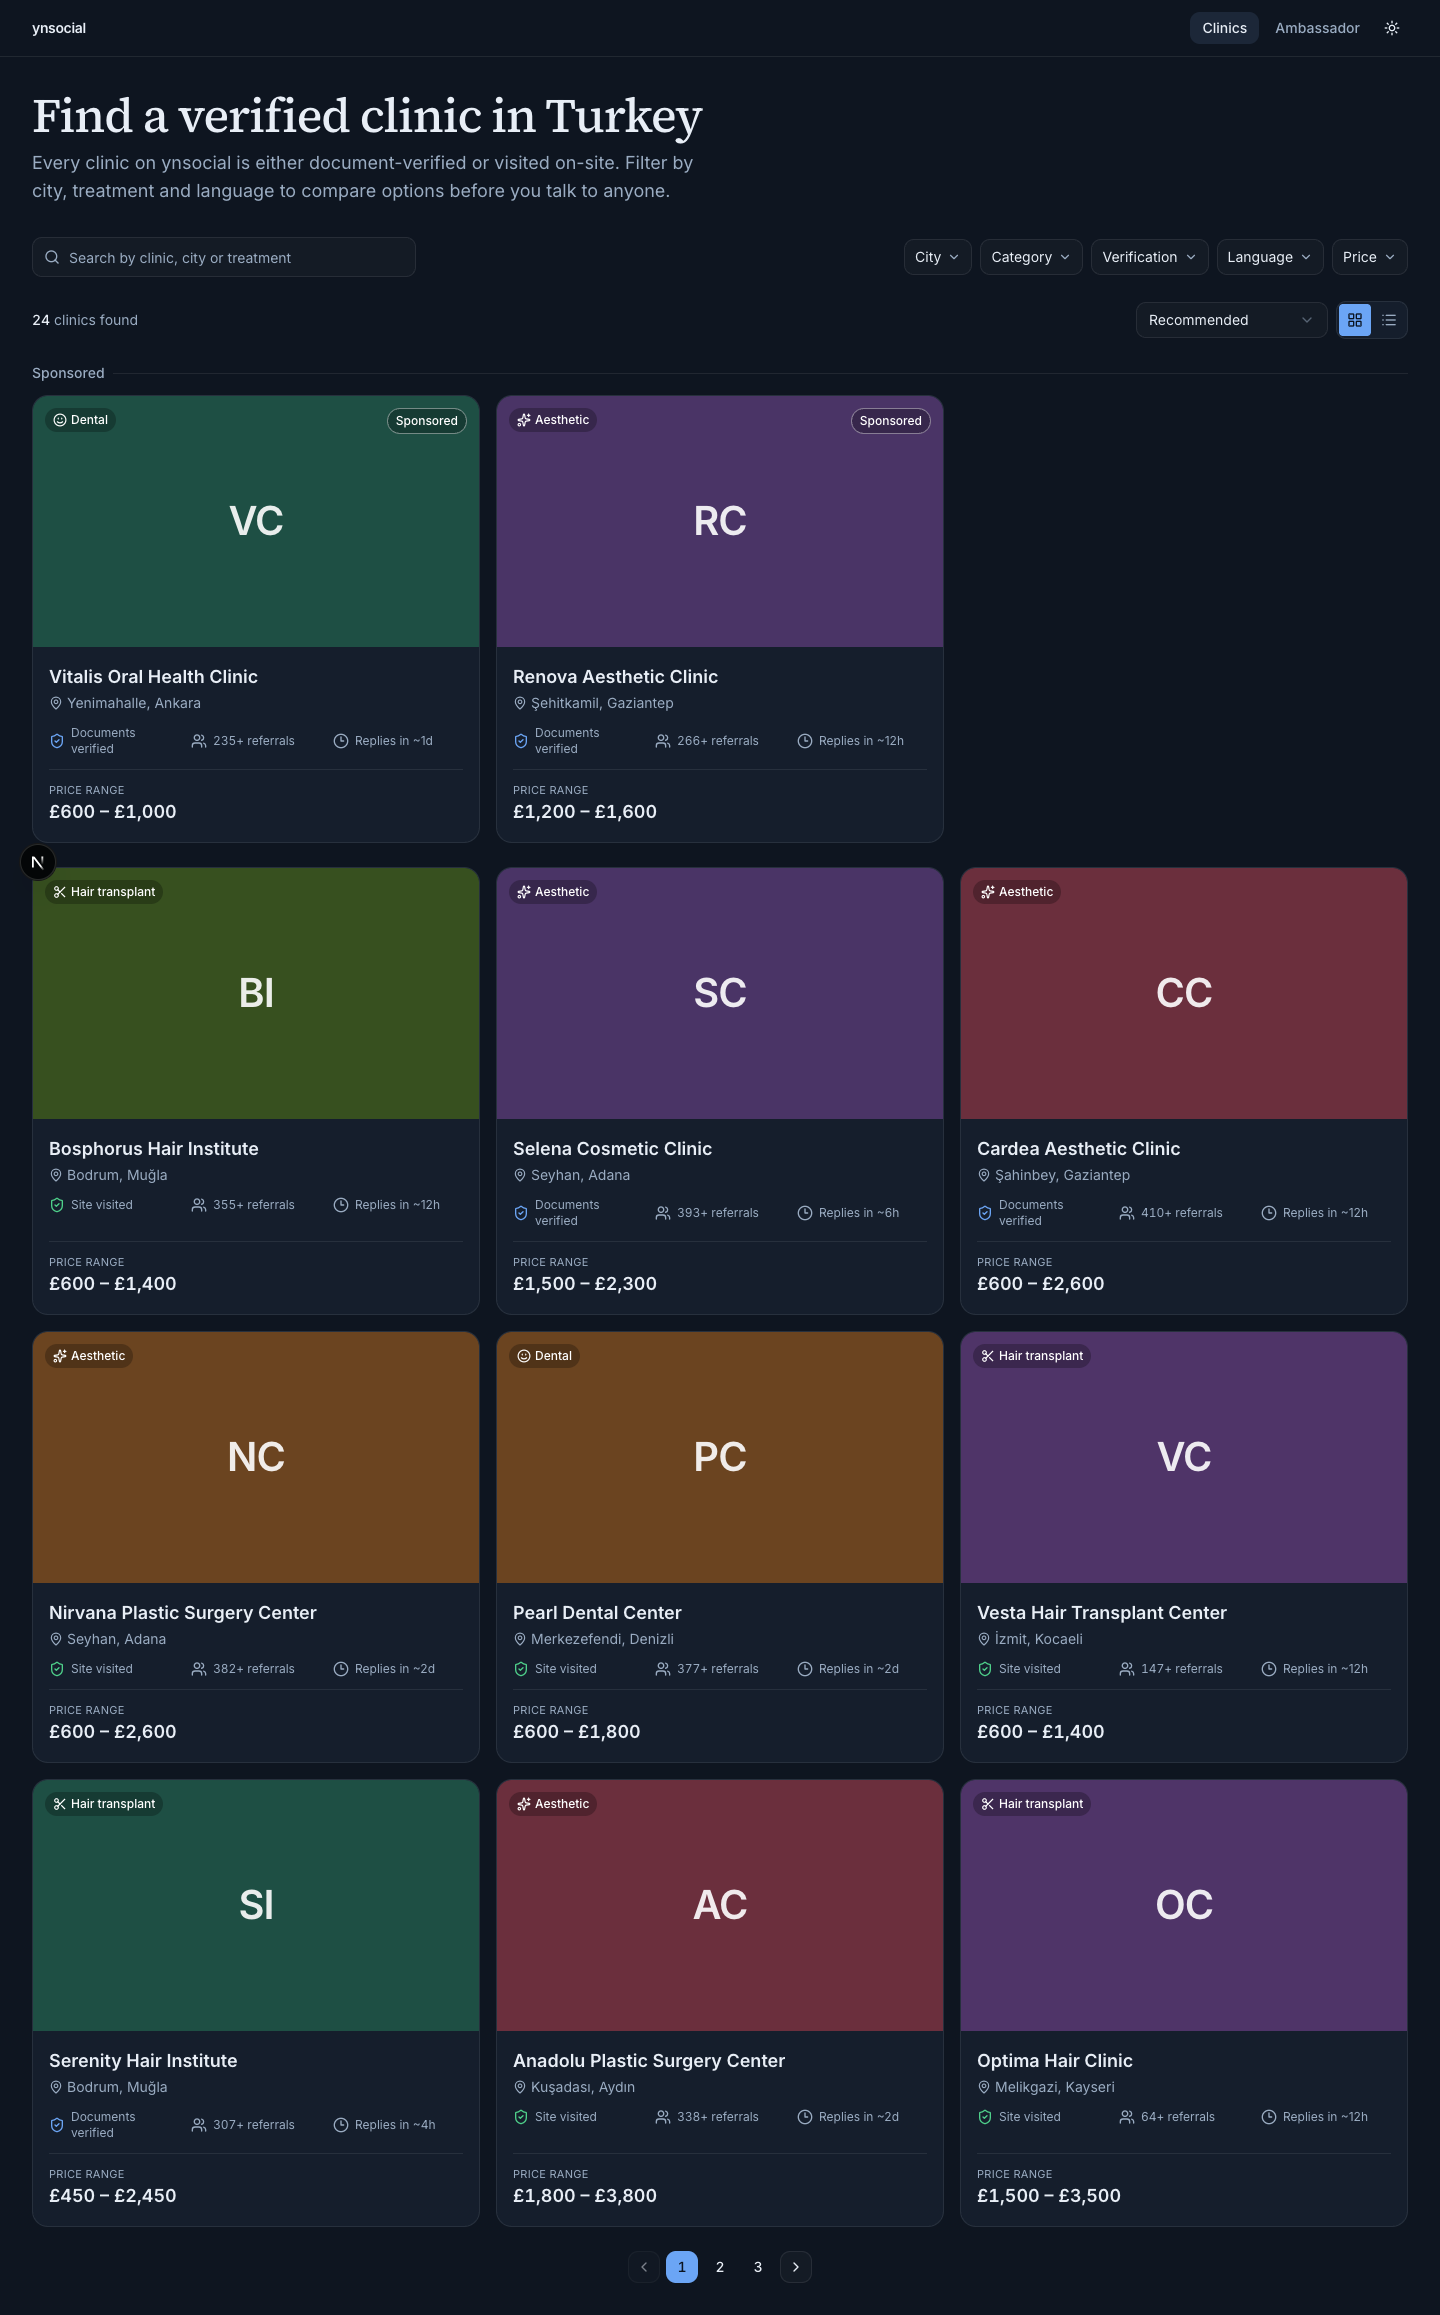
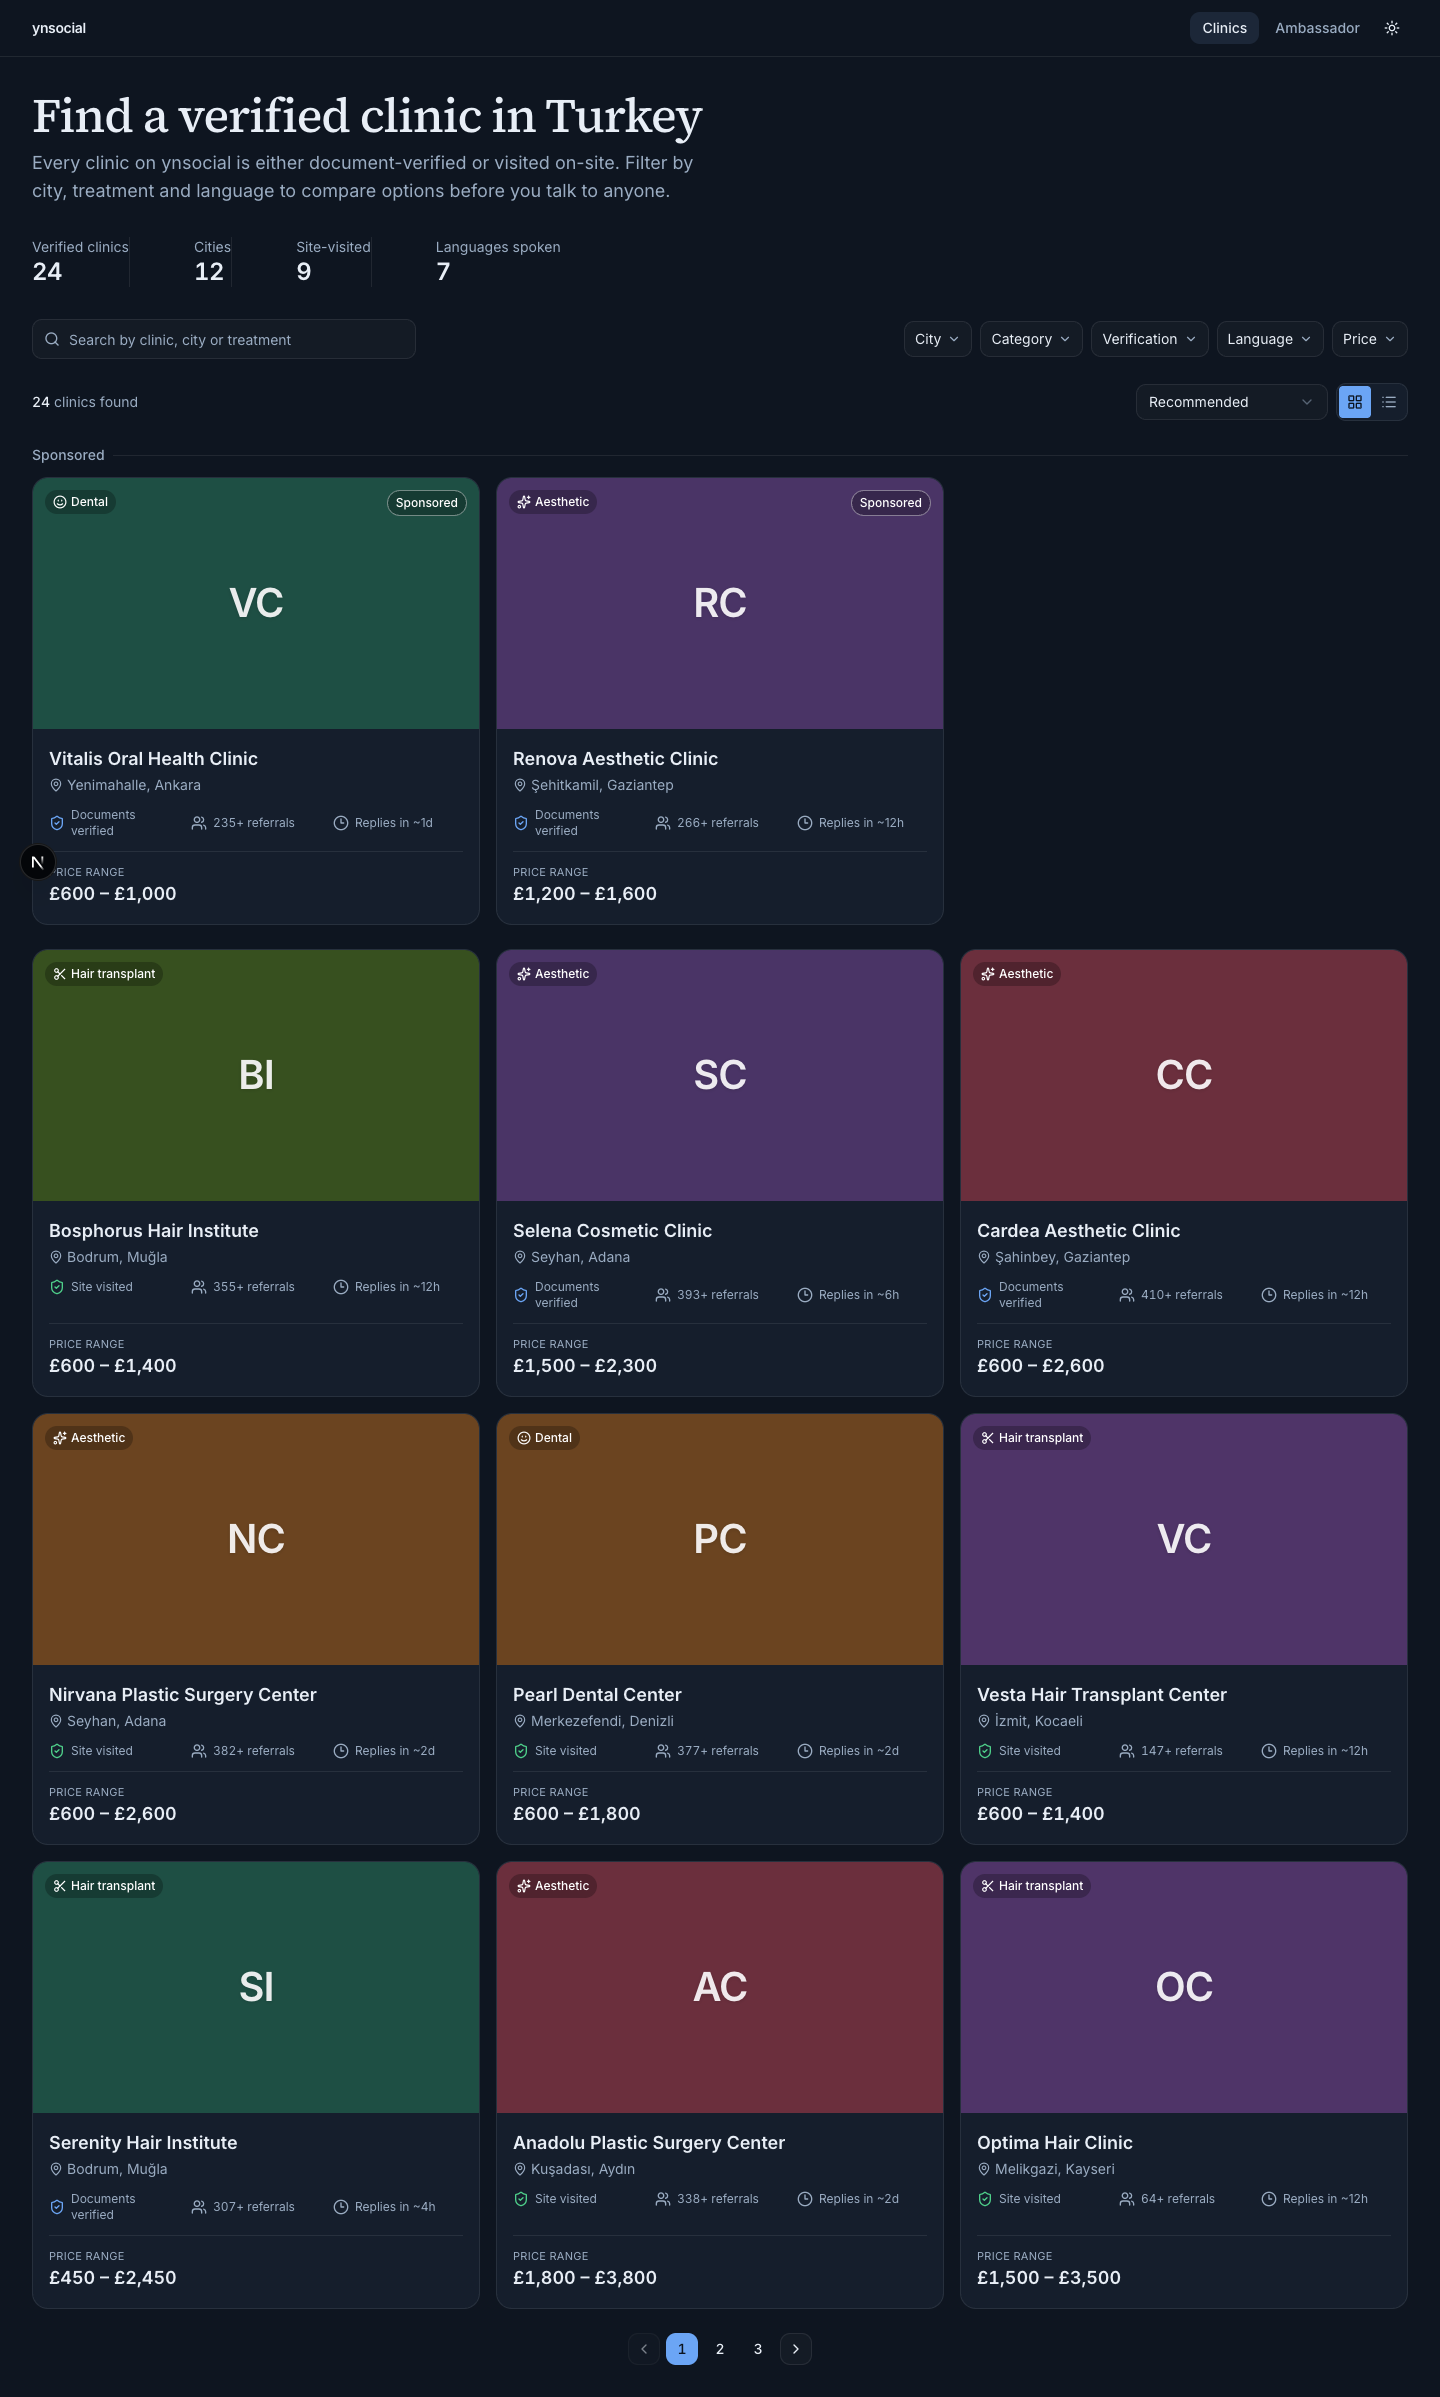
Add visual liveliness pass within the brief's calm-palette constraints
Card entrance stagger, a light-to-dark sheen on identity swatches, a
one-time count-up on ambassador summary numbers, a real-data trust stat
strip on the clinics hero, and a second (still scarce) use of the brand
accent on the Featured tag. Fixes a server/client boundary crash from
passing a formatter function into a client component.

diff --git a/src/components/clinics/clinic-card.tsx b/src/components/clinics/clinic-card.tsx
@@ -1,5 +1,5 @@
 import { Award, Clock3, Globe2, MapPin, Scissors, ShieldCheck, Smile, Sparkles, Users } from "lucide-react"
-import type { ComponentType } from "react"
+import type { ComponentType, CSSProperties } from "react"
 import { identityColorStyle } from "@/lib/deterministic-color"
 import { formatHours, initials } from "@/lib/format"
 import { CATEGORY_LABEL } from "@/lib/labels"
@@ -16,16 +16,24 @@ const CATEGORY_ICON: Record<ClinicCategory, ComponentType<{ className?: string }
 type ClinicCardProps = {
   clinic: Clinic
   variant: ClinicViewMode
+  /** Position in the current page — drives a short staggered entrance. */
+  enterIndex?: number
 }
 
-export function ClinicCard({ clinic, variant }: ClinicCardProps) {
+export function ClinicCard({ clinic, variant, enterIndex }: ClinicCardProps) {
   const CategoryIcon = CATEGORY_ICON[clinic.category]
   const isSiteVisited = clinic.verificationLevel === "site_visited"
+  const enterStyle =
+    enterIndex != null
+      ? ({ "--card-delay": `${Math.min(enterIndex, 9) * 28}ms` } as CSSProperties)
+      : undefined
 
   return (
     <article
+      style={enterStyle}
       className={cn(
-        "group flex h-full overflow-hidden rounded-lg border border-border bg-surface transition-shadow duration-150",
+        "group flex h-full overflow-hidden rounded-lg border border-border bg-surface transition-[transform,box-shadow] duration-150 hover:-translate-y-1 hover:shadow-md",
+        enterIndex != null && "animate-card-in",
         variant === "grid" ? "flex-col" : "flex-col sm:flex-row"
       )}
     >
@@ -33,11 +41,11 @@ export function ClinicCard({ clinic, variant }: ClinicCardProps) {
         aria-hidden="true"
         style={identityColorStyle(clinic.id)}
         className={cn(
-          "identity-swatch identity-pattern relative flex shrink-0 items-center justify-center overflow-hidden",
+          "identity-swatch identity-pattern identity-sheen relative flex shrink-0 items-center justify-center overflow-hidden",
           variant === "grid" ? "aspect-[16/9] w-full" : "aspect-[16/9] w-full sm:aspect-auto sm:w-48"
         )}
       >
-        <span className="text-4xl font-semibold tracking-tight text-white/90">
+        <span className="text-4xl font-semibold tracking-tight text-white/90 drop-shadow-sm">
           {initials(clinic.displayName)}
         </span>
 
@@ -67,7 +75,7 @@ export function ClinicCard({ clinic, variant }: ClinicCardProps) {
           {clinic.isFeatured ? (
             <span
               title="Editor's pick — not a paid placement"
-              className="inline-flex shrink-0 items-center gap-1 rounded-full border border-border-strong px-2 py-0.5 text-2xs font-medium text-text-muted"
+              className="inline-flex shrink-0 items-center gap-1 rounded-full border border-brand/30 bg-brand-bg px-2 py-0.5 text-2xs font-medium text-brand"
             >
               <Award className="size-3" aria-hidden="true" />
               Featured

diff --git a/src/components/ambassador/summary-cards.tsx b/src/components/ambassador/summary-cards.tsx
@@ -1,6 +1,9 @@
+"use client"
+
 import { ArrowDown, ArrowUp, Minus, type LucideIcon } from "lucide-react"
+import { AnimatedNumber } from "@/components/common/animated-number"
 import { formatDate } from "@/lib/format"
-import { formatMoney, formatPercent } from "@/lib/money"
+import { formatPence, formatPercent } from "@/lib/money"
 import { cn } from "@/lib/utils"
 import type { AmbassadorSummary } from "@/types/ambassador"
 
@@ -46,25 +49,29 @@ export function SummaryCards({ summary }: { summary: AmbassadorSummary }) {
     {
       key: "ready",
       label: "Ready to pay",
-      value: formatMoney(summary.readyToPay),
+      value: summary.readyToPay.amount,
+      format: formatPence,
       sub: `Next payout ${formatDate(summary.nextPayoutDate)}`,
     },
     {
       key: "pending",
       label: "Pending earnings",
-      value: formatMoney(summary.pendingEarnings),
+      value: summary.pendingEarnings.amount,
+      format: formatPence,
       sub: "Released after a 30-day hold period",
     },
     {
       key: "referrals",
       label: "Referrals this month",
-      value: String(summary.referralsThisMonth),
+      value: summary.referralsThisMonth,
+      format: (n: number) => String(Math.round(n)),
       trend: referralsTrend(summary.referralsThisMonth, summary.referralsLastMonth),
     },
     {
       key: "conversion",
       label: "Conversion rate",
-      value: formatPercent(summary.conversionRate),
+      value: summary.conversionRate,
+      format: (n: number) => formatPercent(n),
       trend: conversionTrend(summary.conversionRate, summary.conversionRateLast90d),
     },
   ] as const
@@ -74,7 +81,9 @@ export function SummaryCards({ summary }: { summary: AmbassadorSummary }) {
       {cards.map((card) => (
         <div key={card.key} className="flex flex-col gap-2 rounded-lg border border-border bg-surface p-4">
           <p className="text-sm font-medium text-text-muted">{card.label}</p>
-          <p className="tabular text-3xl font-semibold tracking-tight text-text">{card.value}</p>
+          <p className="tabular text-3xl font-semibold tracking-tight text-text">
+            <AnimatedNumber value={card.value} format={card.format} />
+          </p>
           {"trend" in card ? (
             <Delta trend={card.trend} />
           ) : (

diff --git a/src/components/common/animated-number.tsx b/src/components/common/animated-number.tsx
@@ -1,0 +1,54 @@
+"use client"
+
+import { useEffect, useRef, useState } from "react"
+
+type AnimatedNumberProps = {
+  value: number
+  format: (value: number) => string
+  durationMs?: number
+}
+
+function easeOutCubic(t: number) {
+  return 1 - Math.pow(1 - t, 3)
+}
+
+/**
+ * Counts up to `value` once on mount — the brief's suggestion for panel
+ * numbers ("bir kez, abartısız"). Skips straight to the final value under
+ * prefers-reduced-motion, and if the value changes later (e.g. a filter
+ * changes what's shown), it jumps rather than re-animating.
+ */
+export function AnimatedNumber({ value, format, durationMs = 700 }: AnimatedNumberProps) {
+  const [display, setDisplay] = useState(0)
+  const hasAnimated = useRef(false)
+
+  useEffect(() => {
+    if (hasAnimated.current) {
+      setDisplay(value)
+      return
+    }
+    hasAnimated.current = true
+
+    const reduceMotion = window.matchMedia("(prefers-reduced-motion: reduce)").matches
+    if (reduceMotion) {
+      setDisplay(value)
+      return
+    }
+
+    let frame: number
+    const start = performance.now()
+
+    function tick(now: number) {
+      const elapsed = now - start
+      const progress = Math.min(1, elapsed / durationMs)
+      setDisplay(value * easeOutCubic(progress))
+      if (progress < 1) frame = requestAnimationFrame(tick)
+    }
+
+    frame = requestAnimationFrame(tick)
+    return () => cancelAnimationFrame(frame)
+    // eslint-disable-next-line react-hooks/exhaustive-deps
+  }, [value])
+
+  return <>{format(display)}</>
+}

diff --git a/src/components/clinics/trust-stats.tsx b/src/components/clinics/trust-stats.tsx
@@ -1,0 +1,28 @@
+import type { Clinic } from "@/types/clinic"
+
+/** A small strip of real, computed numbers — not decoration, not invented
+ *  stats (the platform explicitly has none). Gives the hero some weight
+ *  without borrowing a rating system it doesn't have. */
+export function TrustStats({ clinics }: { clinics: Clinic[] }) {
+  const cities = new Set(clinics.map((c) => c.city)).size
+  const languages = new Set(clinics.flatMap((c) => c.languages)).size
+  const siteVisited = clinics.filter((c) => c.verificationLevel === "site_visited").length
+
+  const stats = [
+    { value: clinics.length, label: "Verified clinics" },
+    { value: cities, label: "Cities" },
+    { value: siteVisited, label: "Site-visited" },
+    { value: languages, label: "Languages spoken" },
+  ]
+
+  return (
+    <dl className="flex flex-wrap gap-x-8 gap-y-3 divide-x divide-border">
+      {stats.map((stat) => (
+        <div key={stat.label} className="pl-8 first:pl-0">
+          <dt className="text-sm text-text-muted">{stat.label}</dt>
+          <dd className="tabular text-2xl font-semibold tracking-tight text-text">{stat.value}</dd>
+        </div>
+      ))}
+    </dl>
+  )
+}

diff --git a/src/app/globals.css b/src/app/globals.css
@@ -213,6 +213,46 @@
       transparent 12px
     );
   }
+
+  /* Light-to-dark sheen so a flat identity color reads as a surface with
+     depth rather than a solid block of paint. */
+  .identity-sheen {
+    background-image: linear-gradient(
+      135deg,
+      rgba(255, 255, 255, 0.22) 0%,
+      rgba(255, 255, 255, 0) 45%,
+      rgba(0, 0, 0, 0.16) 100%
+    );
+  }
+
+  /* Clinic card entrance — a brief, staggered rise, not a startup-style
+     fly-in. Skipped entirely under prefers-reduced-motion (see below). */
+  @keyframes card-rise {
+    from {
+      opacity: 0;
+      transform: translateY(8px);
+    }
+    to {
+      opacity: 1;
+      transform: translateY(0);
+    }
+  }
+  .animate-card-in {
+    animation: card-rise var(--duration-view) var(--ease-standard) both;
+    animation-delay: var(--card-delay, 0ms);
+  }
+
+  @keyframes count-fade {
+    from {
+      opacity: 0;
+    }
+    to {
+      opacity: 1;
+    }
+  }
+  .animate-count-in {
+    animation: count-fade 300ms var(--ease-standard) both;
+  }
 }
 
 @media (prefers-reduced-motion: reduce) {

diff --git a/src/app/clinics/page.tsx b/src/app/clinics/page.tsx
@@ -1,5 +1,6 @@
 import type { Metadata } from "next"
 import { ClinicsExplorer } from "@/components/clinics/clinics-explorer"
+import { TrustStats } from "@/components/clinics/trust-stats"
 import { getClinics } from "@/data/get-clinics"
 
 export const metadata: Metadata = {
@@ -28,6 +29,8 @@ export default async function ClinicsPage() {
           before you talk to anyone.
         </p>
       </div>
+
+      <TrustStats clinics={clinics} />
 
       <ClinicsExplorer allClinics={clinics} />
     </main>

diff --git a/src/components/clinics/clinics-explorer.tsx b/src/components/clinics/clinics-explorer.tsx
@@ -189,8 +189,8 @@ export function ClinicsExplorer({ allClinics }: { allClinics: Clinic[] }) {
                 : "flex flex-col gap-4"
             }
           >
-            {pageItems.map((clinic) => (
-              <ClinicCard key={clinic.id} clinic={clinic} variant={filters.view} />
+            {pageItems.map((clinic, index) => (
+              <ClinicCard key={clinic.id} clinic={clinic} variant={filters.view} enterIndex={index} />
             ))}
           </div>
 

diff --git a/src/components/clinics/sponsored-section.tsx b/src/components/clinics/sponsored-section.tsx
@@ -25,8 +25,8 @@ export function SponsoredSection({
             : "flex flex-col gap-4"
         }
       >
-        {clinics.map((clinic) => (
-          <ClinicCard key={clinic.id} clinic={clinic} variant={view} />
+        {clinics.map((clinic, index) => (
+          <ClinicCard key={clinic.id} clinic={clinic} variant={view} enterIndex={index} />
         ))}
       </div>
     </section>

diff --git a/README.md b/README.md
@@ -84,9 +84,10 @@ component sets a one-off color, size or spacing value — see
 The brief's reference palette (`docs/02-TASARIM-YONU.md`) was already
 measured and AA/AAA-compliant, so I used it as the base rather than
 inventing a new blue for its own sake, and added one thing of my own: a
-single violet **brand accent**, used in exactly one place (the ambassador
-tier badge icon) — everywhere else stays on the blue/neutral/status
-palette, per the brief's "one accent, used sparingly" rule.
+single violet **brand accent**, used in exactly two places — the ambassador
+tier badge icon and the "Featured" clinic tag — everywhere else stays on
+the blue/neutral/status palette, per the brief's "one accent, used
+sparingly" rule.
 
 **Light theme**
 
@@ -242,6 +243,17 @@ specifically so that ticking a filter checkbox never triggers a Next.js
 navigation, which would re-run the mock delay and flash the loading
 skeleton on every click. Reload and back/forward both restore the exact
 filter state from the URL, as required.
+
+**A note on "calm" vs. "lifeless."** An early pass read as flat rather than
+restrained — same problem the brief warns against just from the other
+direction. The fix wasn't more color: it was a light-to-dark sheen on each
+identity swatch instead of a flat fill, a short staggered rise for cards on
+load (`docs/02-TASARIM-YONU.md`'s own suggestion, capped under 300ms total
+and skipped under `prefers-reduced-motion`), a one-time count-up on the
+ambassador summary numbers, and a small real-numbers stat strip under the
+`/clinics` hero. None of it touches the palette or adds a second accent
+color — it's the same "sakin" system with more conviction in its own
+typography and motion, not more decoration.
 
 ## How the two pages stay one system while looking different
 
